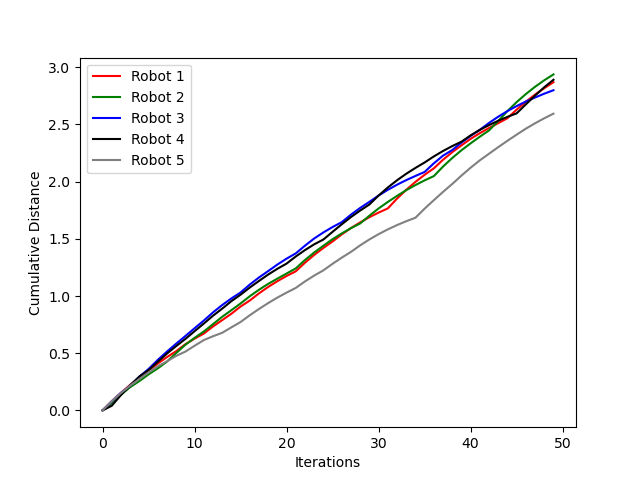
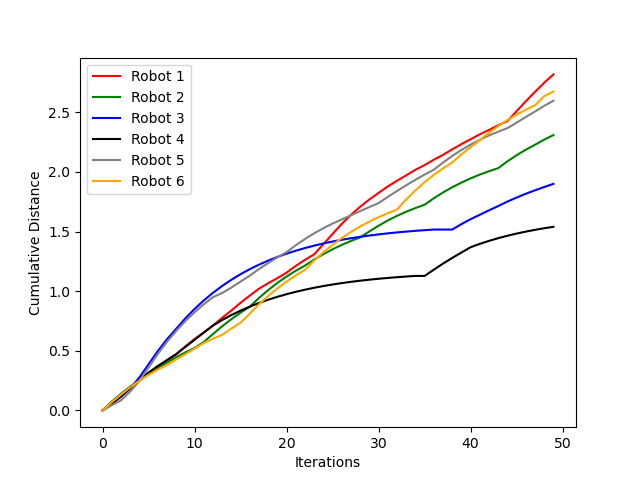
different execution output updated

diff --git a/finalexecution.py b/finalexecution.py
@@ -20,7 +20,7 @@ import matplotlib.patches as patches
 ##################################################################################
 
 charger_colors = ['#00FF00', '#00B300', '#008000', '#00FF00', '#00FF80']
-battery_colors = ['#00FF00', '#00B300', '#008000', '#00FF00', '#00FF80']
+battery_colors = ['#00FF00', '#00B300', '#008000', '#00FF00', '#00FF80', '#008080', '#00FF00', '#808000', '#008000', '#FF00FF']
 
 recharger1_point = patches.Circle((-1, -1), radius=0.03, color=charger_colors[4])  # Blue color for charging points
 recharger2_point = patches.Circle((1, -1), radius=0.03, color=charger_colors[4])
@@ -53,6 +53,7 @@ def find_nearest_charging_station(robot_position, charging_points):
 
 def executeIPP_py(N=4, resolution=0.1, number_of_iterations=20, show_fig_flag=True, save_fig_flag=False):
     battery_levels = np.full(N,1.0)
+    battery_levels[2:4] = 0.5
     rng = np.random.default_rng(12345)
     distance_to_centroid_threshold= -0.1
     file_path = ""
@@ -385,4 +386,4 @@ def executeIPP_py(N=4, resolution=0.1, number_of_iterations=20, show_fig_flag=Tr
 
 if __name__=="__main__":
     #Max 10 robots
-    executeIPP_py(N=5, resolution=0.02,number_of_iterations=50, show_fig_flag=True,save_fig_flag=True)     
+    executeIPP_py(N=6, resolution=0.02,number_of_iterations=50, show_fig_flag=True,save_fig_flag=True)     
